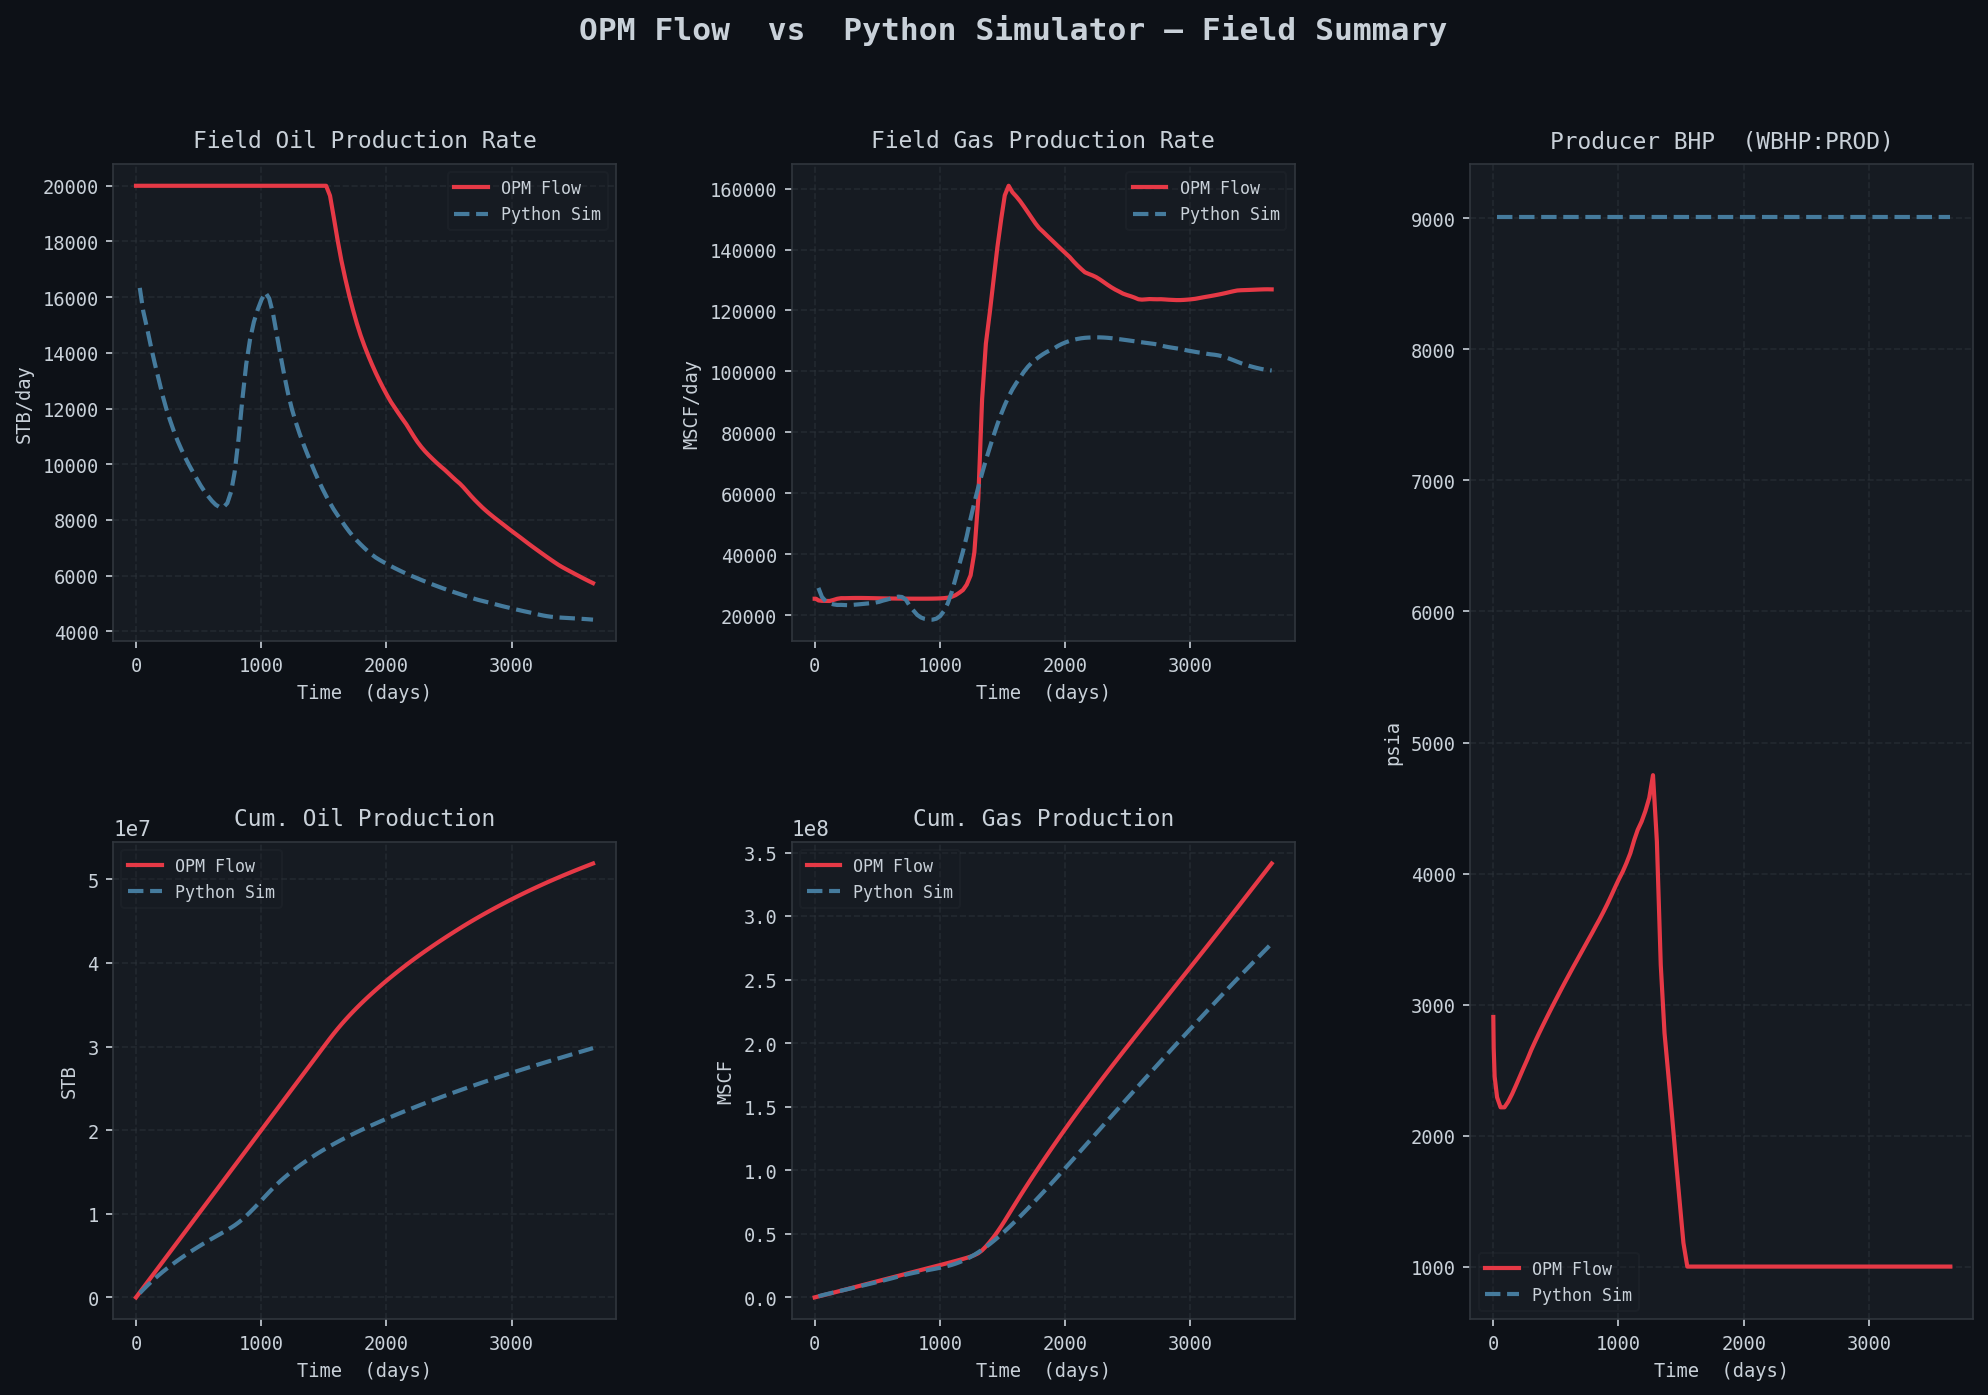
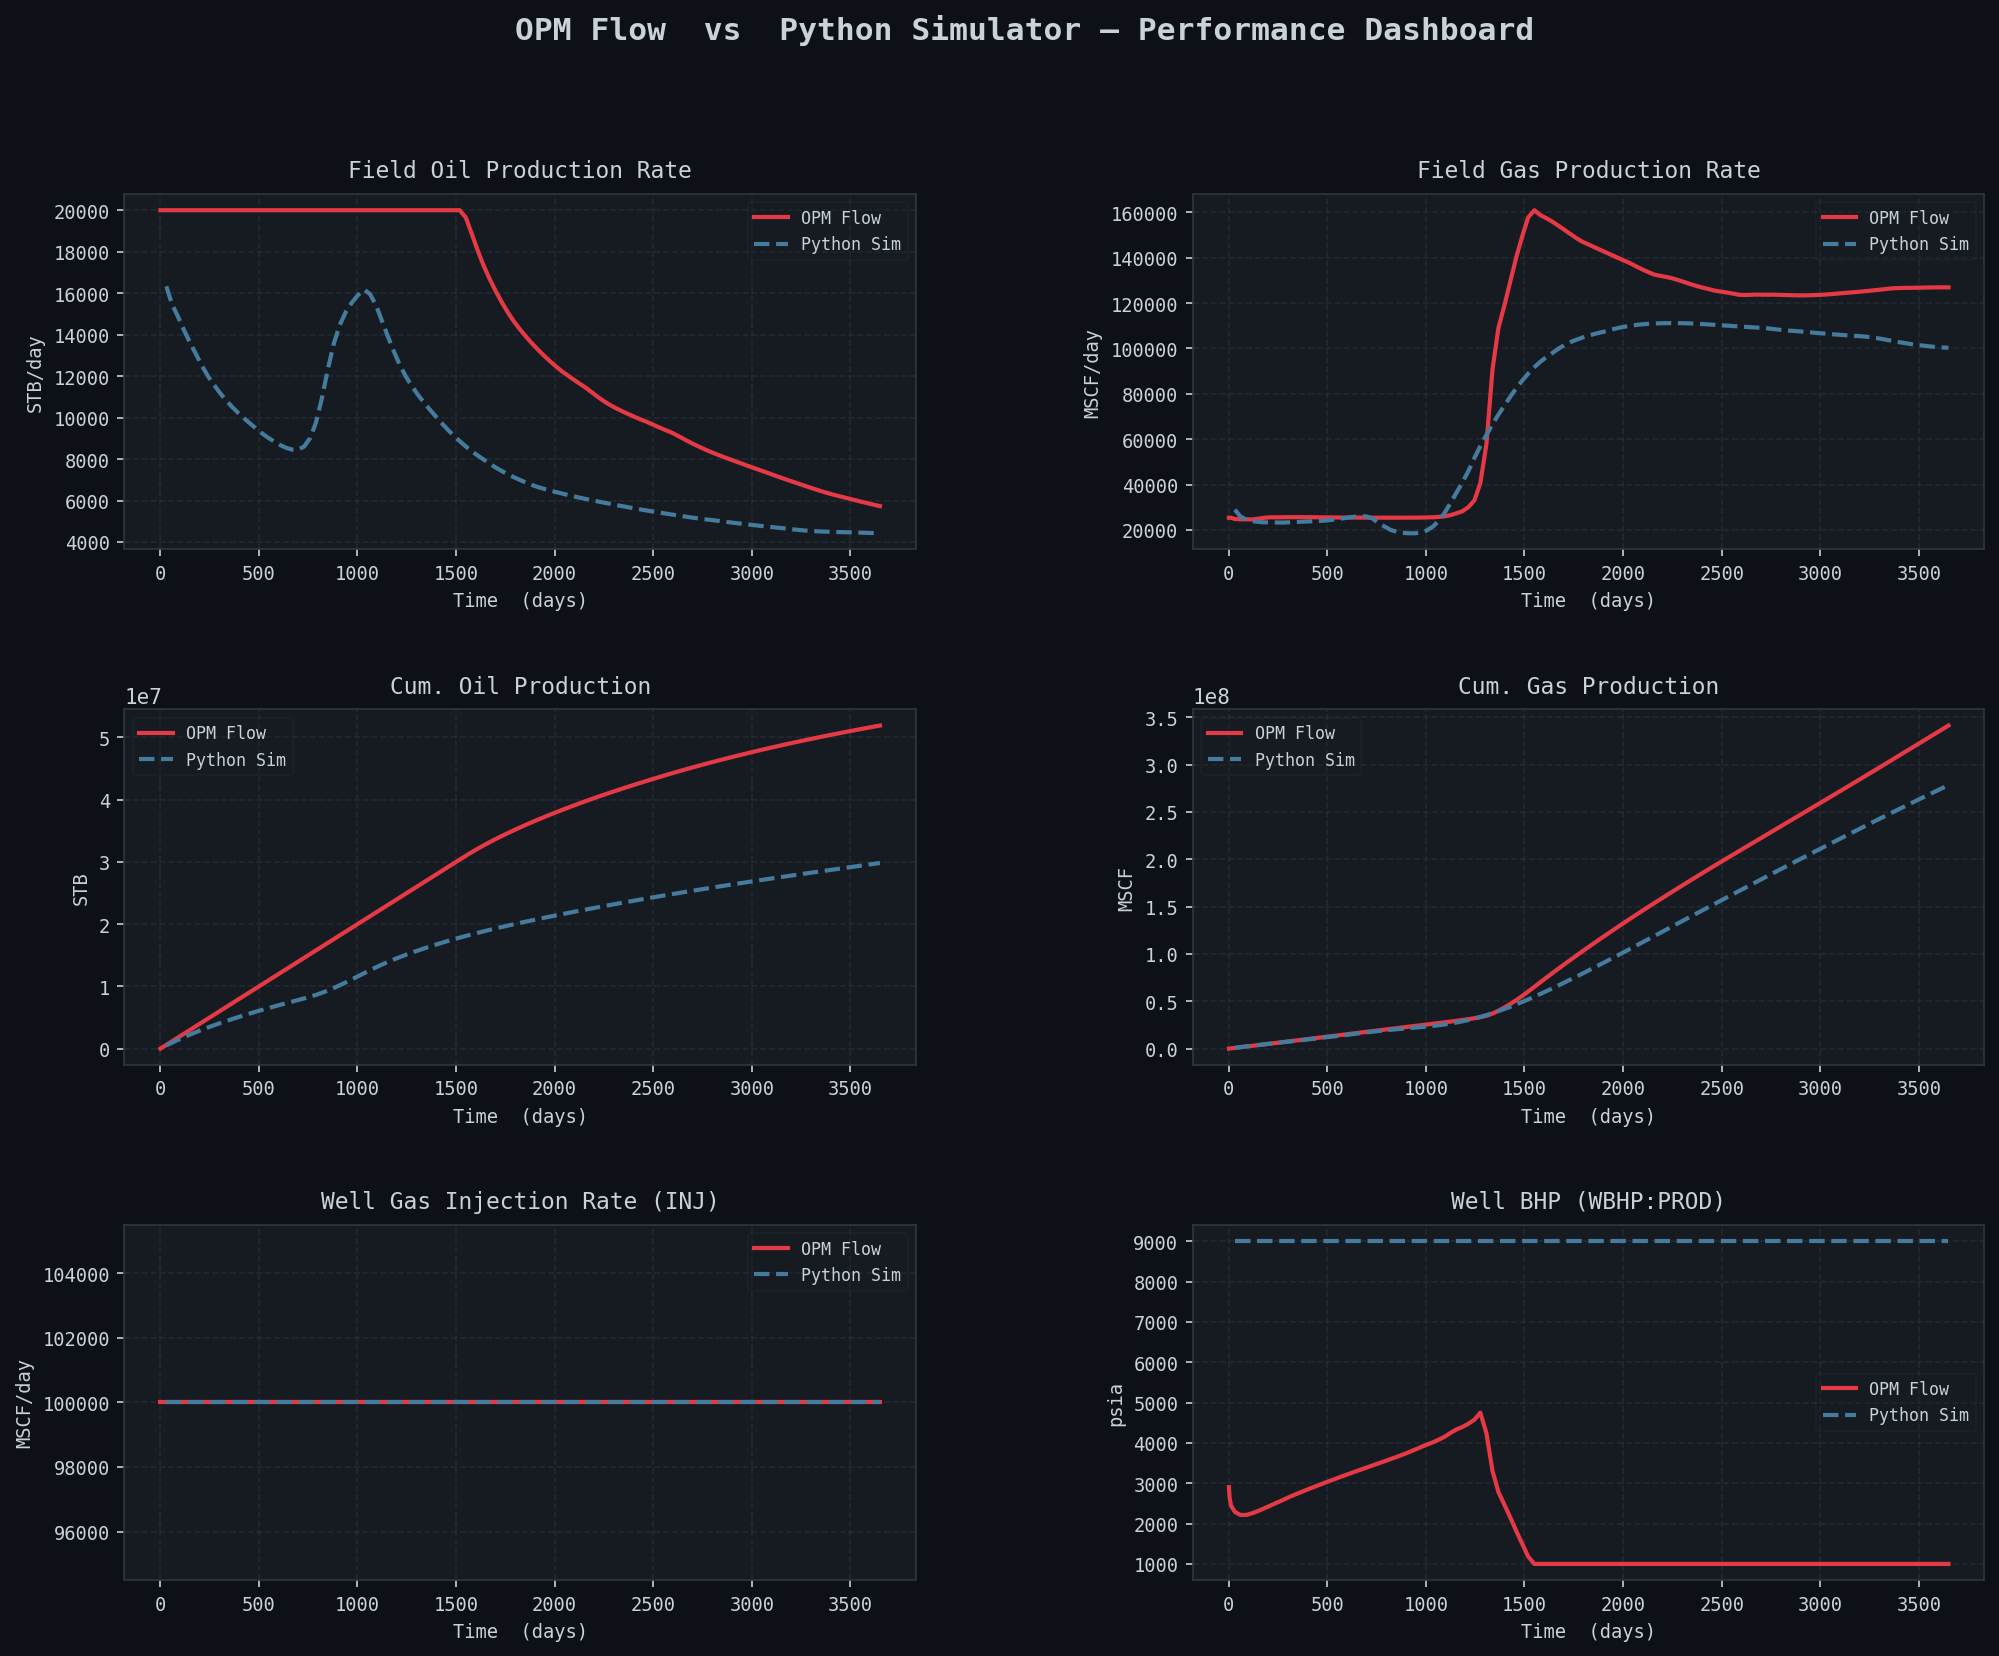
consider injection in compare result

diff --git a/tools/compare_results.py b/tools/compare_results.py
@@ -151,6 +151,7 @@ def figure1_time_series(opm: dict, py: dict, out_path: str):
         ("FGPR",  "Field Gas Production Rate",  "MSCF/day"),
         ("FOPT",  "Cum. Oil Production",         "STB"),
         ("FGPT",  "Cum. Gas Production",         "MSCF"),
+        ("WGIR:INJ", "Well Gas Injection Rate (INJ)", "MSCF/day"),
     ]
 
     # pick well-BHP key (prioritize producer)
@@ -158,13 +159,13 @@ def figure1_time_series(opm: dict, py: dict, out_path: str):
     if not bhp_key:
         bhp_key = next((k for k in opm if "WBHP" in k.upper()), None)
 
-    fig = plt.figure(figsize=(16, 10))
-    fig.suptitle("OPM Flow  vs  Python Simulator — Field Summary",
+    fig = plt.figure(figsize=(16, 12))
+    fig.suptitle("OPM Flow  vs  Python Simulator — Performance Dashboard",
                  fontsize=15, color=TEXT_COLOR, y=0.98, fontweight="bold")
 
-    ncols = 3 if bhp_key else 2
-    nrows = 2
-    gs = GridSpec(nrows, ncols, figure=fig, hspace=0.42, wspace=0.35)
+    ncols = 2
+    nrows = 3
+    gs = GridSpec(nrows, ncols, figure=fig, hspace=0.45, wspace=0.35)
 
     def _plot(ax, key, title, unit):
         t_o = opm.get("TIME", [])
@@ -178,13 +179,13 @@ def figure1_time_series(opm: dict, py: dict, out_path: str):
         ax.set_ylabel(unit, fontsize=9)
         ax.legend(fontsize=8)
 
-    positions = [(0,0),(0,1),(1,0),(1,1)]
+    positions = [(0,0),(0,1),(1,0),(1,1),(2,0)]
     for (r, c), (key, title, unit) in zip(positions, panels):
         ax = fig.add_subplot(gs[r, c])
         _plot(ax, key, title, unit)
 
     if bhp_key:
-        ax_bhp = fig.add_subplot(gs[:, 2])
+        ax_bhp = fig.add_subplot(gs[2, 1])
         t_o = opm.get("TIME", [])
         t_p = py.get("TIME", [])
         if bhp_key in opm:
@@ -192,7 +193,7 @@ def figure1_time_series(opm: dict, py: dict, out_path: str):
         py_bhp = next((k for k in py if "WBHP" in k), None)
         if py_bhp:
             ax_bhp.plot(t_p, py[py_bhp], color=PY_COLOR, lw=2, label="Python Sim", ls="--")
-        _ax_style(ax_bhp, f"Producer BHP  ({bhp_key})")
+        _ax_style(ax_bhp, f"Well BHP ({bhp_key})")
         ax_bhp.set_xlabel("Time  (days)", fontsize=9)
         ax_bhp.set_ylabel("psia", fontsize=9)
         ax_bhp.legend(fontsize=8)
